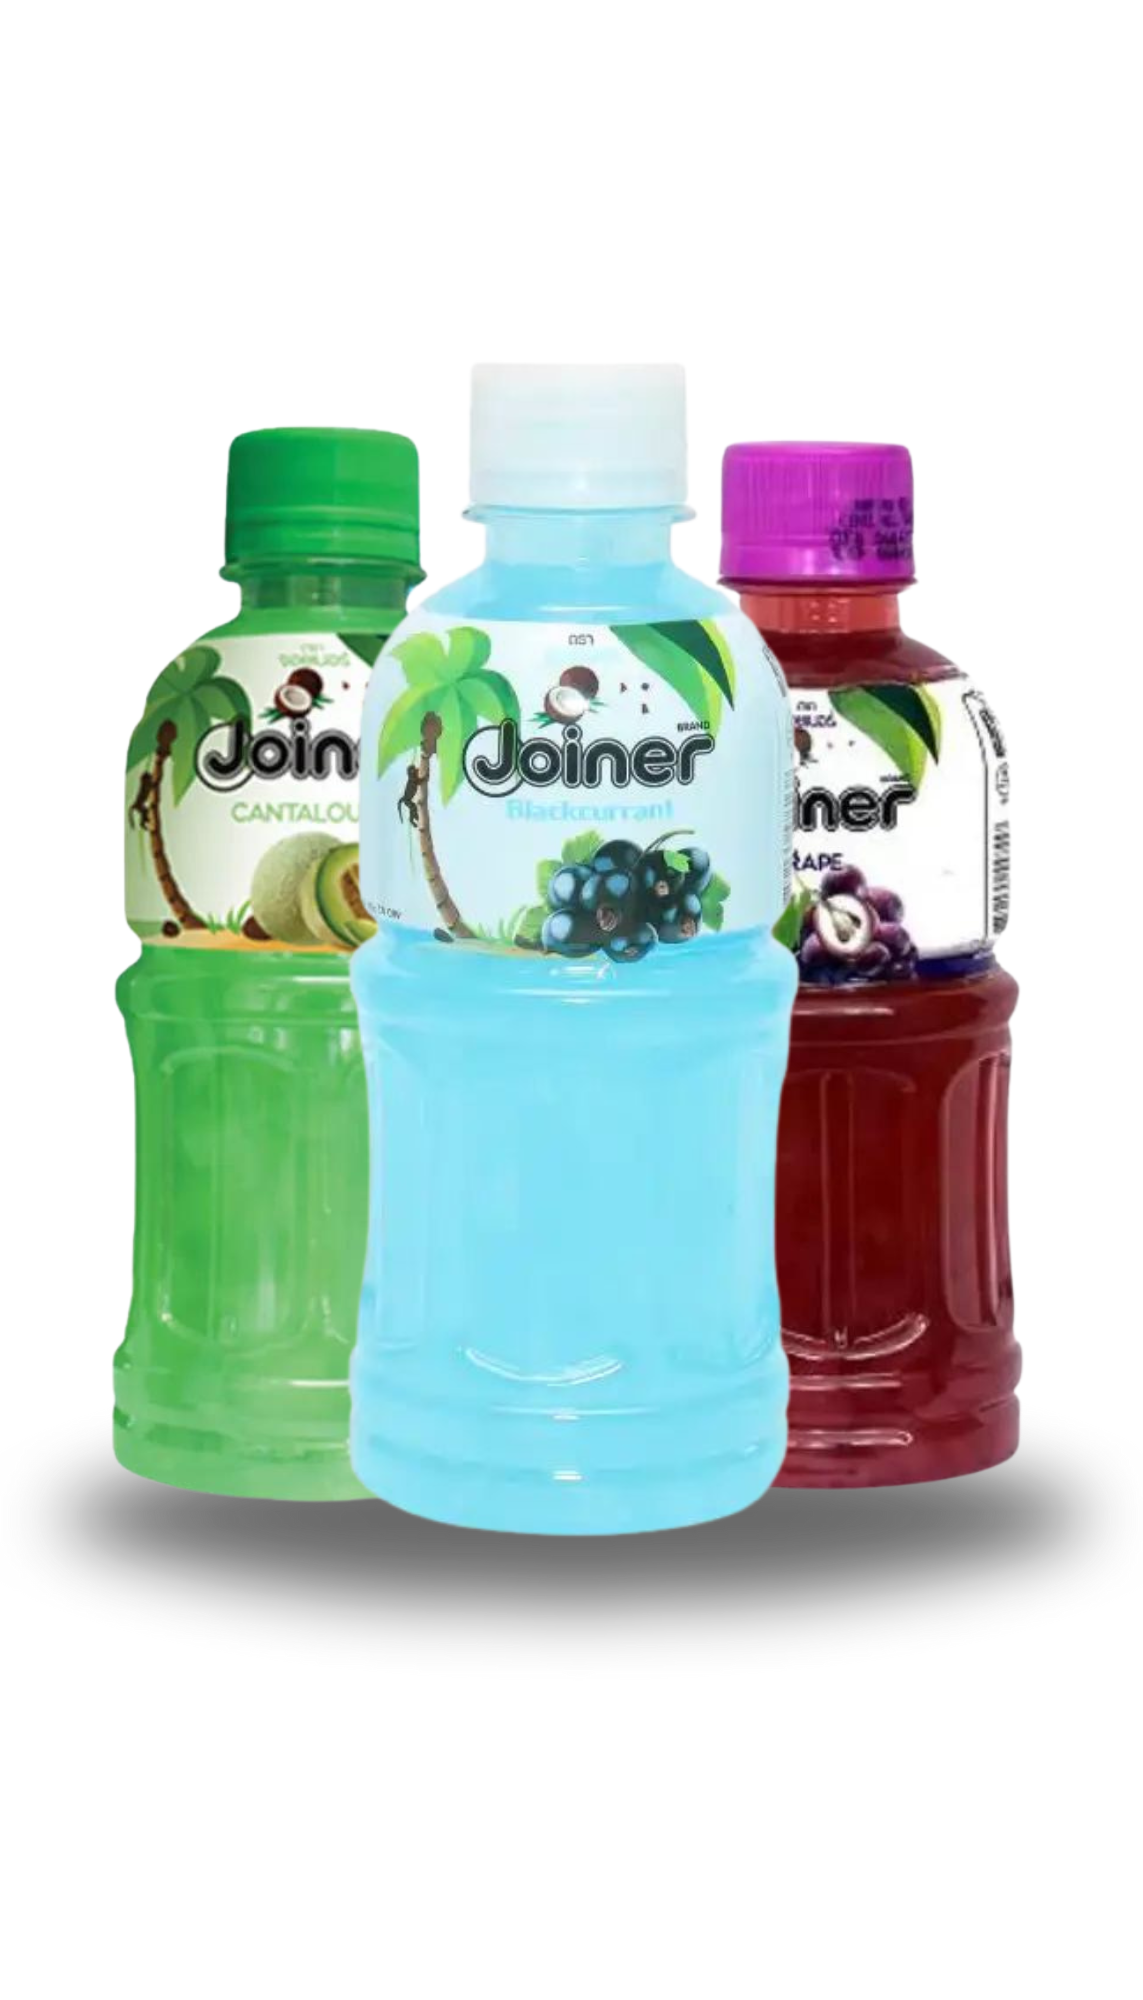
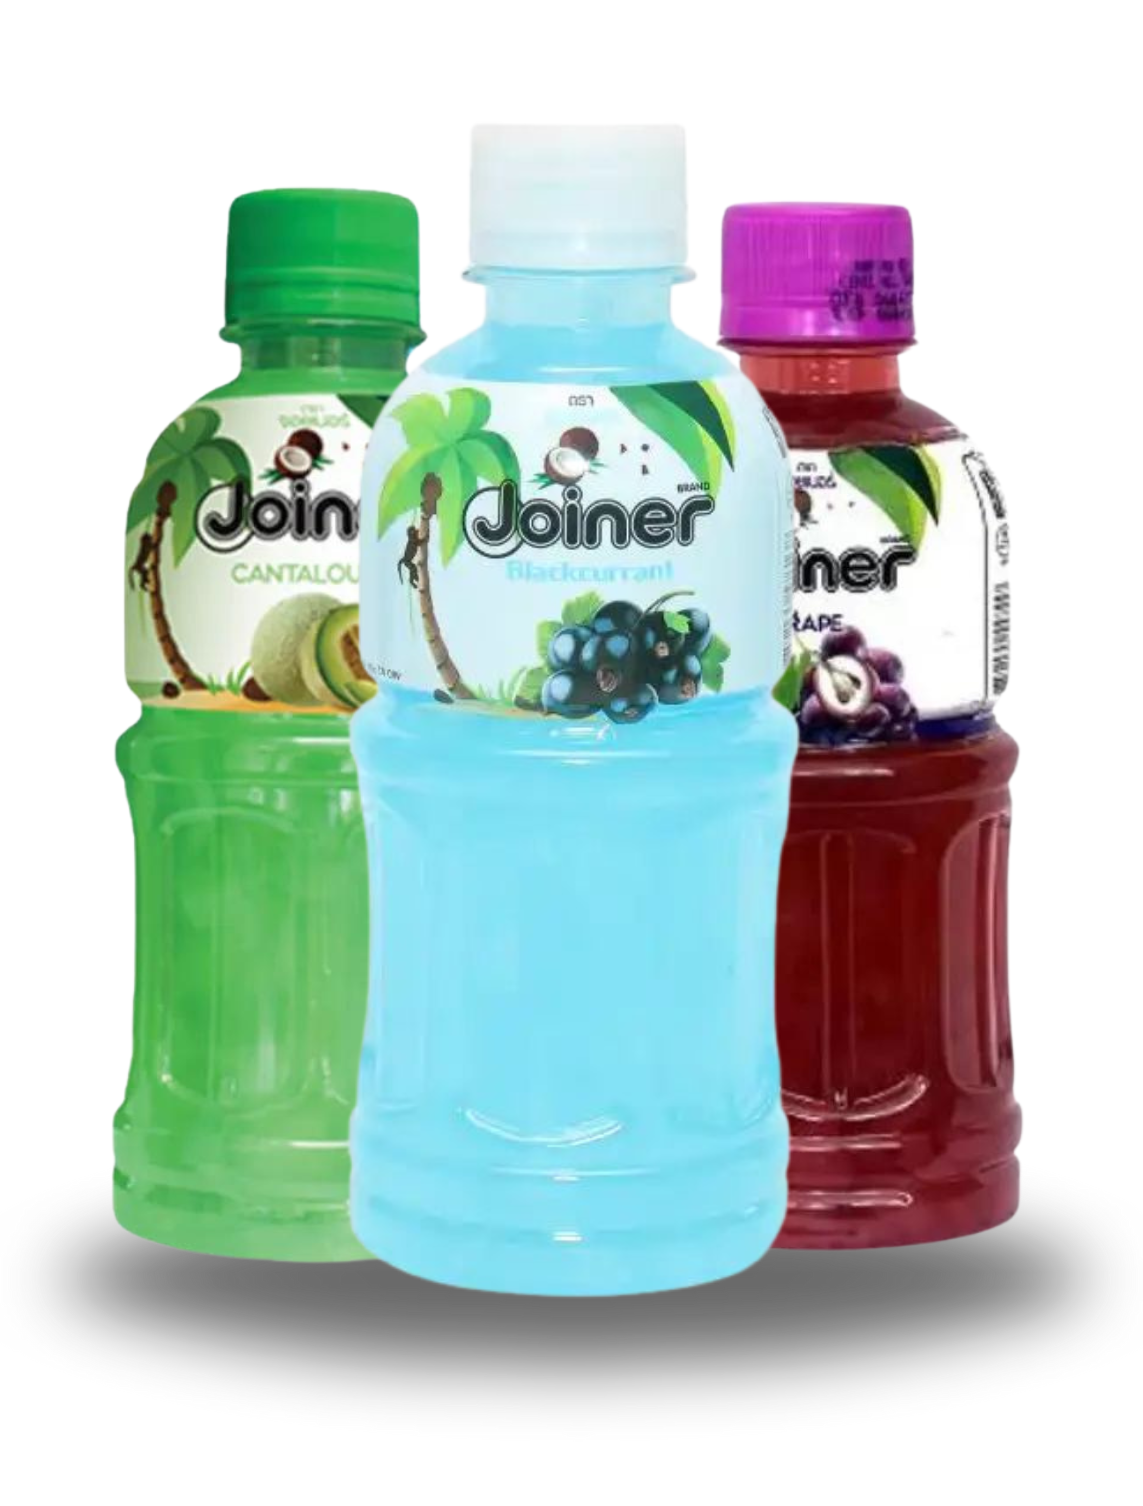
i will try again the juice image

diff --git a/src/utils/data.js b/src/utils/data.js
@@ -657,7 +657,7 @@ export const dates = [
         name: 'Joiner-65',
         rating: 4,
         price: '₹250.00',
-        image: 'Images/ProductsImages/juice/joinerpic3.png',
+        image: 'Images/ProductsImages/juice/joinerpic4.png',
         unitsSold: 43,
     },
     {
